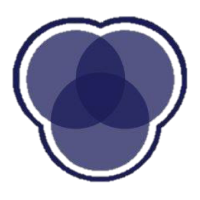
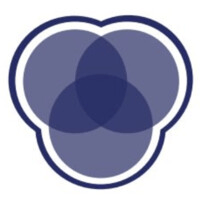
final laptop change

diff --git a/app/page.tsx b/app/page.tsx
@@ -591,6 +591,7 @@ export default function Home() {
                     height: sticker.size,
                     transform: `rotate(${sticker.rotate})`,
                     borderRadius: sticker.shape === "circle" ? "50%" : "1.1rem",
+                    zIndex: sticker.alt === "LinkedIn" ? 20 : 1,
                   }}
                   data-tip={sticker.tip}
                 >
@@ -598,7 +599,7 @@ export default function Home() {
                 </div>
               ))}
 
-              <div className="sticker absolute flex h-28 w-54 flex-col justify-center rounded-[0.5rem] border border-sky-200 bg-sky-50 p-3 text-center shadow-[0_10px_24px_rgba(0,0,0,0.12)] transition-transform duration-200 hover:scale-105" style={{ top: 380, left: 500, transform: "rotate(3deg)" }} data-tip="Always moving and traveling - excited for my next journey! ✈️">
+              <div className="sticker absolute flex h-28 w-54 flex-col justify-center rounded-[0.5rem] border border-sky-200 bg-sky-50 p-3 text-center shadow-[0_10px_24px_rgba(0,0,0,0.12)] transition-transform duration-200 hover:scale-105" style={{ top: 380, left: 500, transform: "rotate(3deg)", zIndex: 1 }} data-tip="Always moving and traveling - excited for my next journey! ✈️">
                 <div className="flex items-center justify-center gap-2 whitespace-nowrap text-[0.75rem] font-bold uppercase tracking-[0.22em] text-sky-900">
                   <span>Boarding Pass</span>
                 </div>